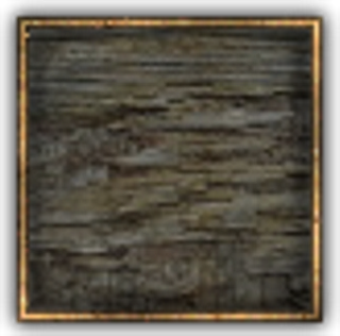
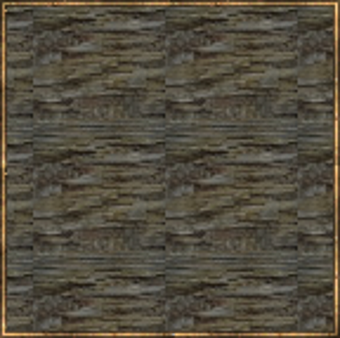
Update image in menu

diff --git a/game_menu_gui.py b/game_menu_gui.py
@@ -6,7 +6,7 @@ from engine.initialize_engine import width, height
 def init():
     global names_elements
     names_elements = []
-    gui.add_element(Image((width//2, height//2), load_image("images/game_menu_gui/menu1.png"), 'background'))
+    gui.add_element(Image((width//2, height//2), load_image("images/game_menu_gui/menu.png"), 'background'))
     names_elements.append('background')
 
     gui.add_element(Button((width//2, height//2-50),{
